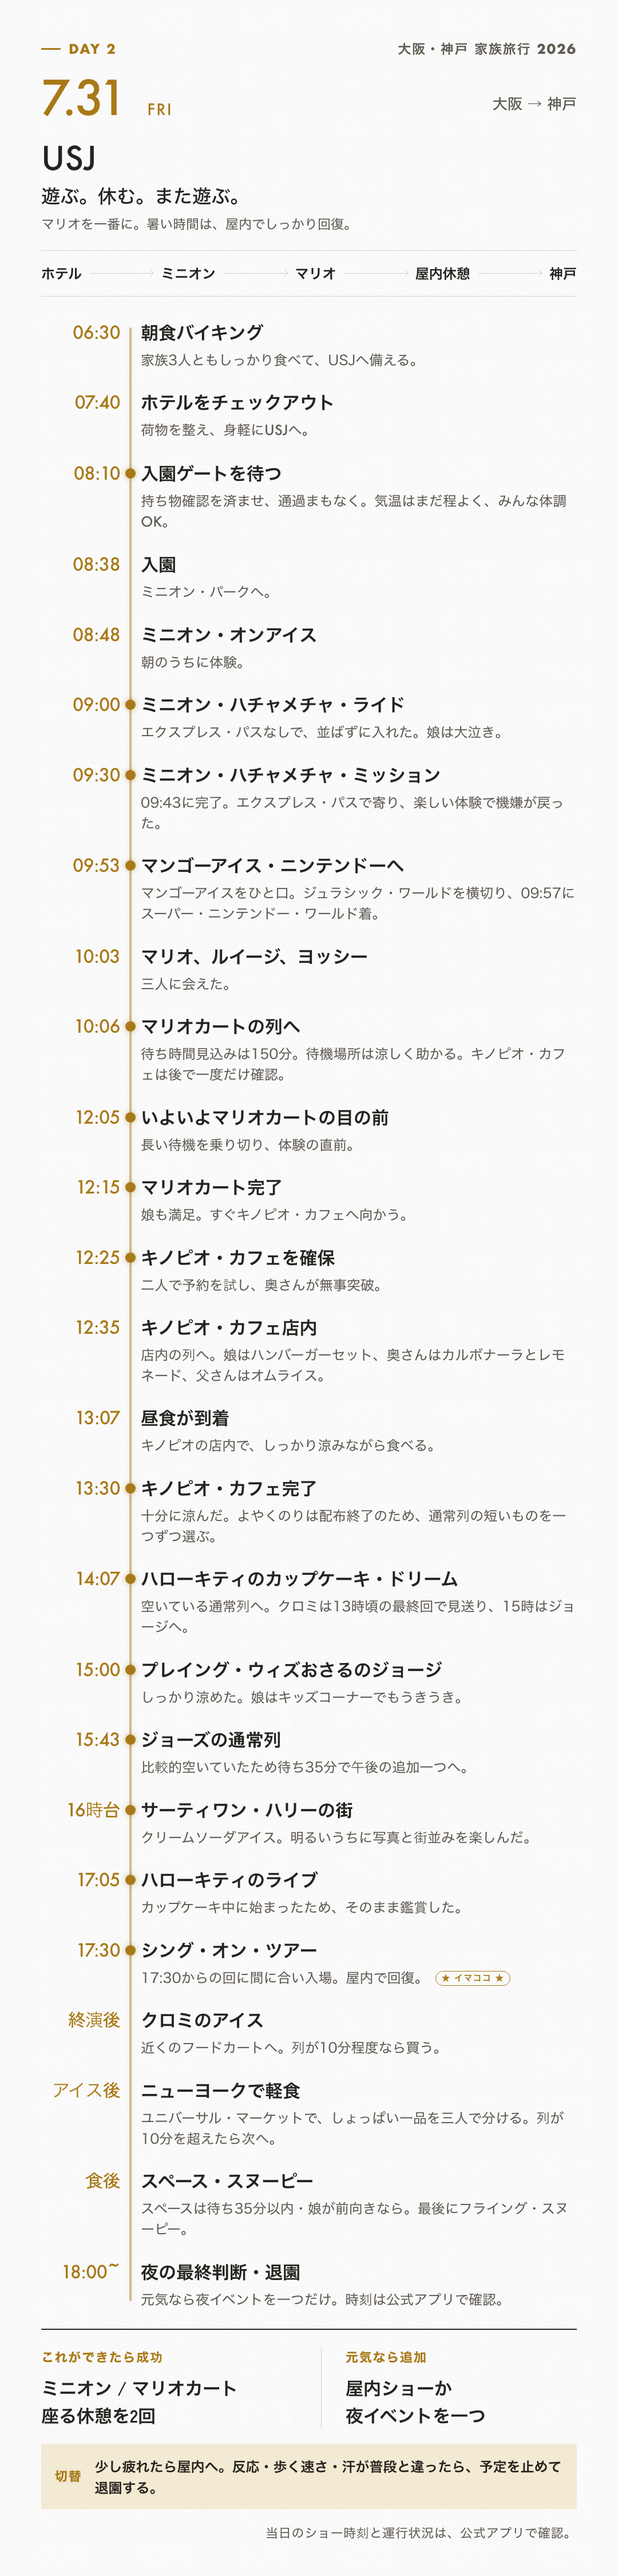
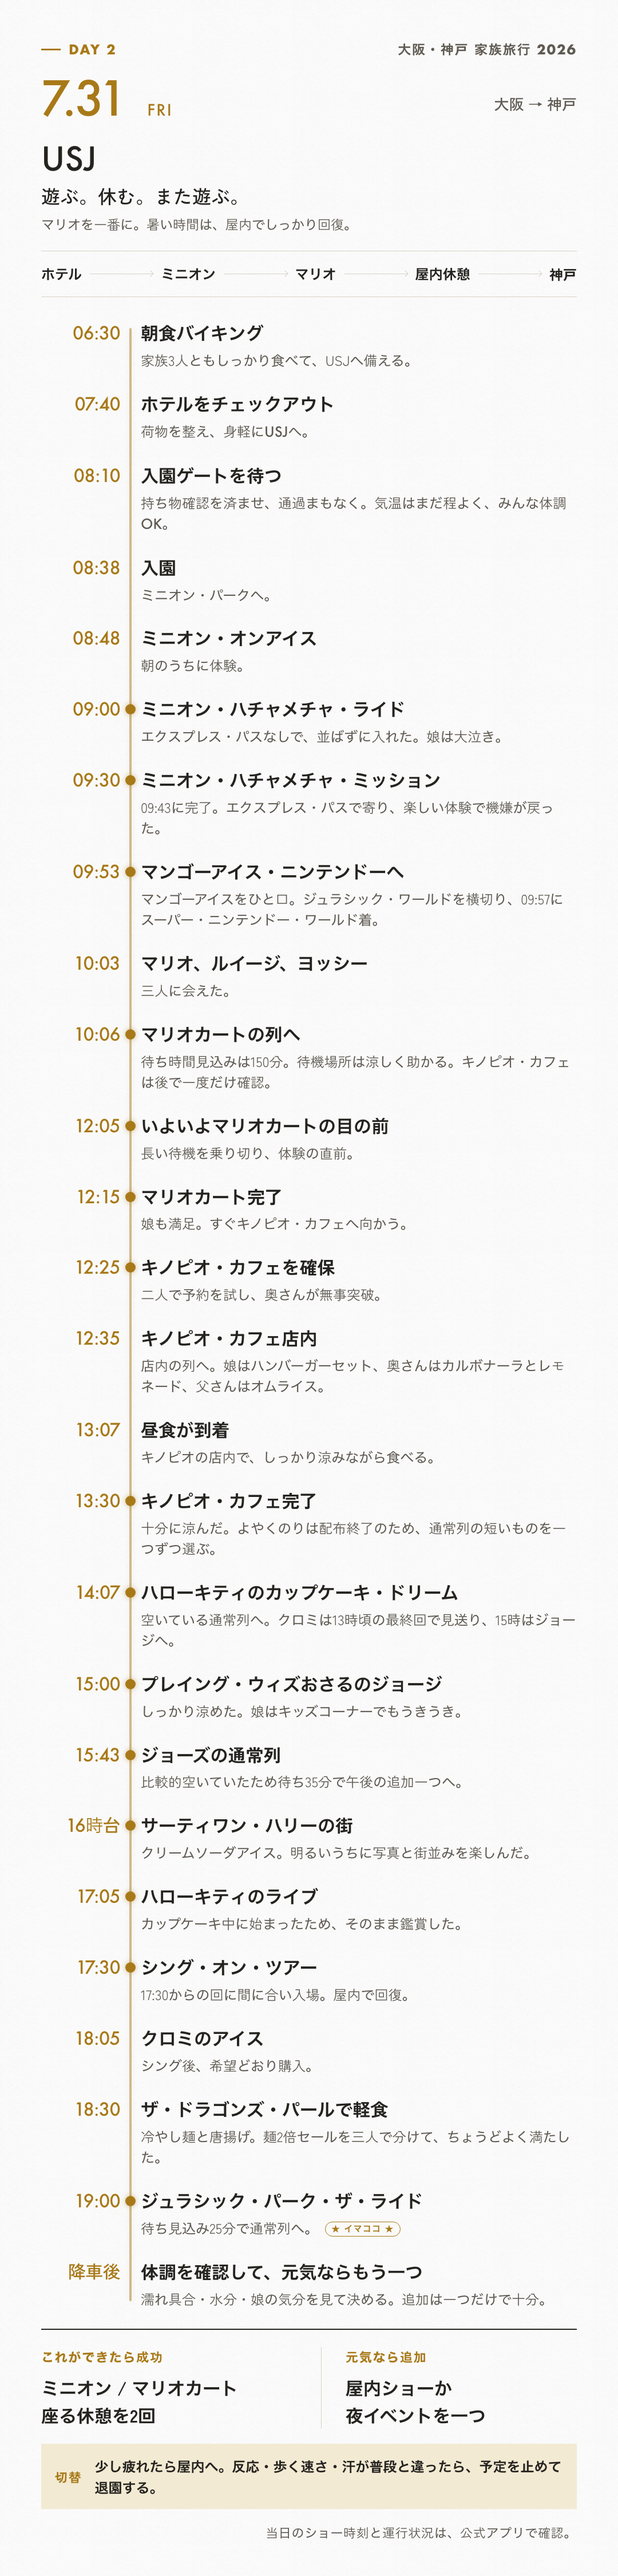
Record USJ evening progress

diff --git a/docs/usj-guide.html b/docs/usj-guide.html
@@ -102,7 +102,19 @@
             </div>
             <div class="timeline__item">
               <time>17:30</time>
-              <div><h3>シング・オン・ツアー</h3><p>17:30からの回に間に合い、入場。屋内でこの日の三度目の回復時間へ。<span class="now-marker">★ イマココ ★</span></p></div>
+              <div><h3>シング・オン・ツアー</h3><p>17:30からの回に間に合い、入場。屋内でこの日の三度目の回復時間へ。</p></div>
+            </div>
+            <div class="timeline__item">
+              <time>18:05</time>
+              <div><h3>クロミのアイス</h3><p>シング後、希望どおり購入。</p></div>
+            </div>
+            <div class="timeline__item">
+              <time>18:30</time>
+              <div><h3>ザ・ドラゴンズ・パールで軽食</h3><p>冷やし麺と唐揚げ。麺2倍セールを三人で分けて、ちょうどよく満たした。</p></div>
+            </div>
+            <div class="timeline__item">
+              <time>19:00</time>
+              <div><h3>ジュラシック・パーク・ザ・ライドの列</h3><p>待ち見込み25分。<span class="now-marker">★ イマココ ★</span></p></div>
             </div>
           </div>
         </section>
@@ -141,23 +153,23 @@
         <section>
           <div class="eyebrow"><span aria-hidden="true"></span>FAMILY DECISION</div>
           <h2>ここからの判断</h2>
-          <p class="status-note"><span class="now-marker">★ イマココ ★</span> 17:30、シング・オン・ツアーの中。昼の本命と夕方の散策は達成済み。ここからは「食べる・一つ乗る・夜を続けるか」の三択だけで進める。</p>
+          <p class="status-note"><span class="now-marker">★ イマココ ★</span> 19:00、ジュラシック・パーク・ザ・ライドの列。軽食まで完了したので、ここからは「一つ楽しむ・回復する・夜を続けるか」の判断だけで進める。</p>
           <div class="mini-grid">
             <div>
-              <h3>次: クロミのアイス</h3>
-              <p>シング後、イルミネーション・シアター入口横のフードカートへ。列が10分程度なら買う。</p>
+              <h3>いま: ジュラシック</h3>
+              <p>19:00に通常列へ。待ち見込み25分なら、今夜の追加ライドとしてちょうどよい。</p>
             </div>
             <div>
-              <h3>次: しょっぱい軽食を一つ</h3>
-              <p>ニューヨークのユニバーサル・マーケットで、家族で一つ分ける。カレーナン!? 焼きそばドッグがあれば本命。列が10分を超えたら、食事にせず次へ進む。</p>
+              <h3>次: 降りた直後の確認</h3>
+              <p>濡れ具合、水分、娘の表情を三人で確認。暑さや疲れが出たら、次のライドを増やさない。</p>
             </div>
             <div>
-              <h3>食後: ライドは一つずつ</h3>
-              <p>スペースは待ち35分以内で娘が前向きなら。長ければフライング・スヌーピーを先にする。</p>
+              <h3>追加は希望があれば一つ</h3>
+              <p>娘がまだ乗りたいなら、待ち時間の短い方を一つだけ。暗さ・回転があるスペースは、本人が前向きな時だけにする。</p>
             </div>
           </div>
           <p class="route-line">
-            シング → クロミのアイス → しょっぱい軽食を一つ → スペースまたはスヌーピー → 元気なら夜イベントを一つ
+            ジュラシック → 水分・体調確認 → 希望があれば追加一つ → 迎え場所へ
           </p>
           <p class="deadline-note">
             <strong>終了済み:</strong> よやくのり、クロミ・ライブ、朝の整理券判断。いまは新しい券や期限を追わず、目の前の待ち時間と娘の反応で決める。
@@ -168,31 +180,31 @@
           <h2>ここからの実行順</h2>
           <div class="timeline">
             <div class="timeline__item">
-              <time>いま</time>
+              <time>完了</time>
               <div>
-                <h3>シング・オン・ツアー</h3>
-                <p>17:30の回に入場済み。座って最後の屋内回復を取る。</p>
+                <h3>シング、クロミのアイス、軽食</h3>
+                <p>18:30にザ・ドラゴンズ・パールで冷やし麺と唐揚げを三人で分けた。</p>
               </div>
             </div>
             <div class="timeline__item">
-              <time>終演後</time>
+              <time>19:00</time>
               <div>
-                <h3>クロミのアイス</h3>
-                <p>近くのフードカートへ。列が10分程度なら買い、長ければそのまま軽食の列を確認する。</p>
+                <h3>ジュラシック・パーク・ザ・ライド</h3>
+                <p>待ち見込み25分で通常列へ。ここを今夜の本命にする。<span class="now-marker">★ イマココ ★</span></p>
               </div>
             </div>
             <div class="timeline__item">
-              <time>アイス後</time>
+              <time>降車後</time>
               <div>
-                <h3>ニューヨークで軽食</h3>
-                <p>ユニバーサル・マーケットで、しょっぱい一品を家族で分ける。列が10分を超えるなら食べずに次へ。</p>
+                <h3>濡れ・水分・気分を確認</h3>
+                <p>回復が必要なら、次を増やさず歩きながら夜の雰囲気を楽しむ。</p>
               </div>
             </div>
             <div class="timeline__item">
-              <time>食後</time>
+              <time>元気なら</time>
               <div>
-                <h3>スペースかスヌーピー</h3>
-                <p>スペースは待ち35分以内で娘が前向きなら。長待ちならスヌーピーを先にする。二つとも無理に完走しない。</p>
+                <h3>追加は一つだけ</h3>
+                <p>娘が希望し、待ち時間が短いものだけにする。スペースは本人が乗りたがる時だけ。</p>
               </div>
             </div>
             <div class="timeline__item">
@@ -208,7 +220,7 @@
         <section>
           <div class="eyebrow"><span aria-hidden="true"></span>FOOD GUIDE</div>
           <h2>昼と夜のごはん</h2>
-          <p class="status-note">昼食はキノピオ・カフェで完了。今夜はシング後のクロミのアイス、続いてハリウッドで夕食を取る。</p>
+          <p class="status-note">昼食はキノピオ・カフェで完了。夜はクロミのアイス、ザ・ドラゴンズ・パールの冷やし麺と唐揚げまで完了した。</p>
 
           <h3>昼: マリオカート後に最短で座る</h3>
           <p>
@@ -256,10 +268,10 @@
             12時台は「いちばん食べたい店」より「すぐ座れて冷房がある店」を選ぶ。
           </p>
 
-          <h3>今夜: シング後の軽食</h3>
+          <h3>今夜: 軽食まで完了</h3>
           <p>
-            シング後は、近くのクロミのアイスを挟んでから、ニューヨークのユニバーサル・マーケットへ。
-            座る食事にはせず、しょっぱい一品を三人で分けて、次の体験へ進む。
+            18:05にクロミのアイス、18:30にザ・ドラゴンズ・パールで冷やし麺と唐揚げ。
+            麺2倍セールを三人で分け、追加ライド前の軽食としてちょうどよく収まった。
           </p>
           <div class="food-grid food-grid--night">
             <article class="food-card food-card--primary">
@@ -267,10 +279,10 @@
                 <img src="https://www.usj.co.jp/contentdata/usj/ja/jp/files/images/gds-images/usj-gds-universal-market-b.jpg" alt="ユニバーサル・マーケット" />
               </a>
               <div class="food-card__body">
-                <p class="food-card__label">LIGHT DINNER / FIRST</p>
-                <h3>ユニバーサル・マーケット</h3>
-                <p>ニューヨーク・エリアの食べ歩きフード集合場所。ホットドッグカートにカレーナン!? 焼きそばドッグがあれば、三人で一つ分ける。</p>
-                <a href="https://www.usj.co.jp/web/ja/jp/restaurants/universal-market" target="_blank" rel="noreferrer">公式メニューを見る</a>
+                <p class="food-card__label">LIGHT DINNER / ACTUAL</p>
+                <h3>ザ・ドラゴンズ・パール</h3>
+                <p>冷やし麺と唐揚げを三人でシェア。麺2倍セールが効いて、しっかり満足しつつ重くならなかった。</p>
+                <a href="https://www.usj.co.jp/web/ja/jp/restaurants" target="_blank" rel="noreferrer">公式フード案内を見る</a>
               </div>
             </article>
             <article class="food-card">
@@ -280,7 +292,7 @@
               <div class="food-card__body">
                 <p class="food-card__label">SWEET / OPTIONAL</p>
                 <h3>クロミのソフローズン</h3>
-                <p>イルミネーション・シアター入口横のフードカート。列が10分程度なら先に買う。待ちが長ければ見送ってよい。</p>
+                <p>イルミネーション・シアター入口横のフードカートで購入。シング後の希望をきれいに回収できた。</p>
                 <a href="https://www.usj.co.jp/web/ja/jp/attractions/kuromi-live" target="_blank" rel="noreferrer">公式情報を見る</a>
               </div>
             </article>
@@ -315,13 +327,13 @@
         <section>
           <h2>今夜の候補</h2>
           <div class="mini-grid">
-            <div><h3>まず軽食</h3><p>クロミのアイスの後、ユニバーサル・マーケットでしょっぱい一品を分ける。</p></div>
-            <div><h3>スペース</h3><p>スペース・ファンタジー・ザ・ライド ～CLUB ZEDD REMIX～。待ち35分以内で娘が乗りたいときだけ。</p></div>
-            <div><h3>スヌーピー</h3><p>フライング・スヌーピー。待ち25分以内なら、食後の一つとして有力。</p></div>
-            <div><h3>夜イベント</h3><p>食後の娘の体力が緑なら一つだけ。場所取りや追いかけはしない。</p></div>
+            <div><h3>いま</h3><p>ジュラシック・パーク・ザ・ライド。19:00、待ち見込み25分の通常列へ。</p></div>
+            <div><h3>降車後</h3><p>濡れ具合、水分、娘の表情を確認。暑さが戻っていたら、次は増やさない。</p></div>
+            <div><h3>元気なら</h3><p>待ち時間が短い候補を一つだけ。スペースは本人が乗りたい時だけ。</p></div>
+            <div><h3>退園</h3><p>追加の約束より、家族三人が気持ちよく終われることを優先する。</p></div>
           </div>
           <p class="direction-note">
-            <strong>完了済み:</strong> ミニオン二つ、マリオカート、キノピオ・カフェ、カップケーキ、ジョージ、ジョーズ、アミティアイス、ハリーの街、キティのライブ。クロミ・ライブは13時頃で終了、よやくのりは配布終了。
+            <strong>完了済み:</strong> ミニオン二つ、マリオカート、キノピオ・カフェ、カップケーキ、ジョージ、ジョーズ、アミティアイス、ハリーの街、キティのライブ、シング、クロミのアイス、夜の軽食。クロミ・ライブは13時頃で終了、よやくのりは配布終了。
           </p>
         </section>
 

diff --git a/docs/trip-plan.html b/docs/trip-plan.html
@@ -413,11 +413,11 @@
             </div>
             <div>
               <h3>現在</h3>
-              <p><span class="now-marker">★ イマココ ★</span> 17:30、シング・オン・ツアーに間に合い入場。</p>
+              <p><span class="now-marker">★ イマココ ★</span> 19:00、ジュラシック・パーク・ザ・ライドの通常列へ。待ち見込み25分。</p>
             </div>
             <div>
               <h3>この後</h3>
-              <p>シング後は近くでクロミのアイス。ニューヨークで軽食を一つ分け、スペースかスヌーピーを待ち時間で一つ選ぶ。</p>
+              <p>クロミのアイス、冷やし麺と唐揚げの軽食まで完了。降車後に水分・体調を確認し、元気なら追加は一つだけ。</p>
             </div>
           </div>
           <p>時刻つきの実績、現在地、ここからの判断は、<a href="usj-guide.html">USJ当日ガイド</a>を正本とする。</p>
